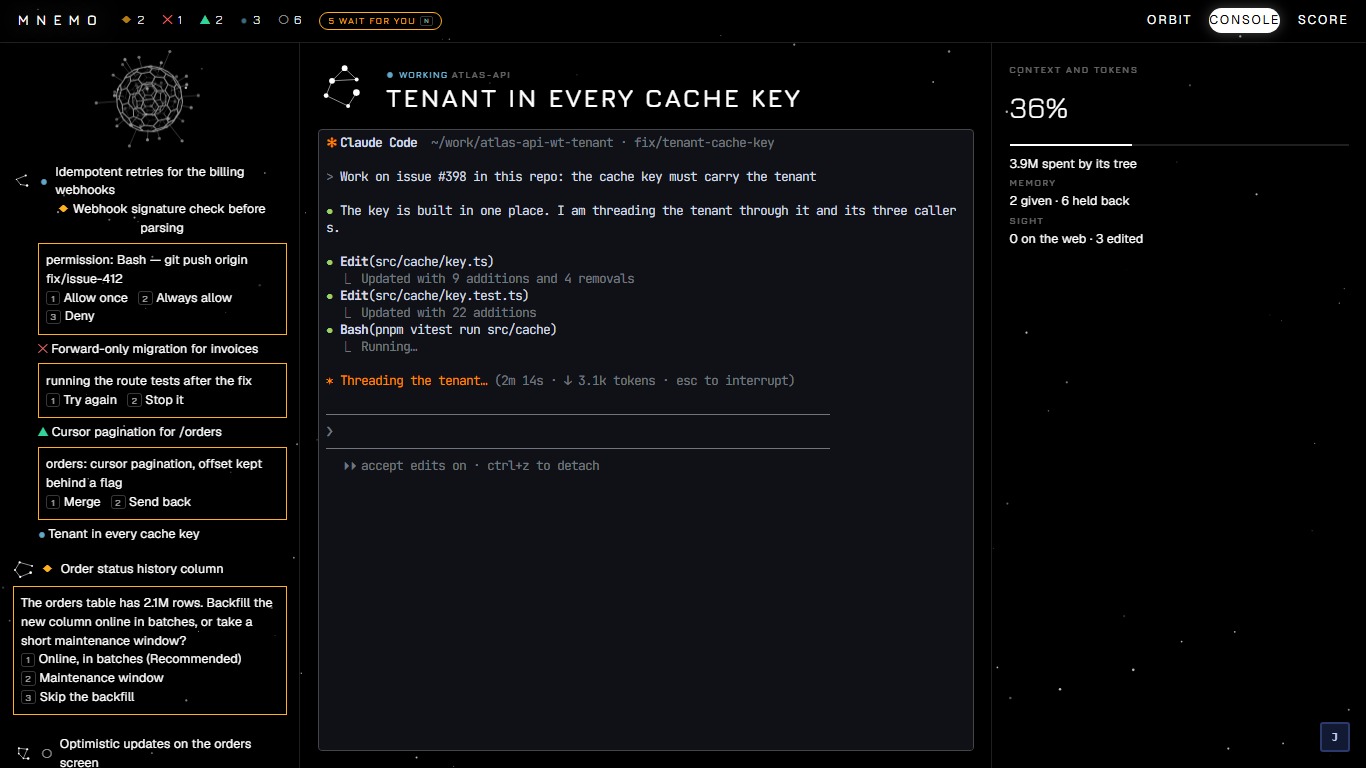
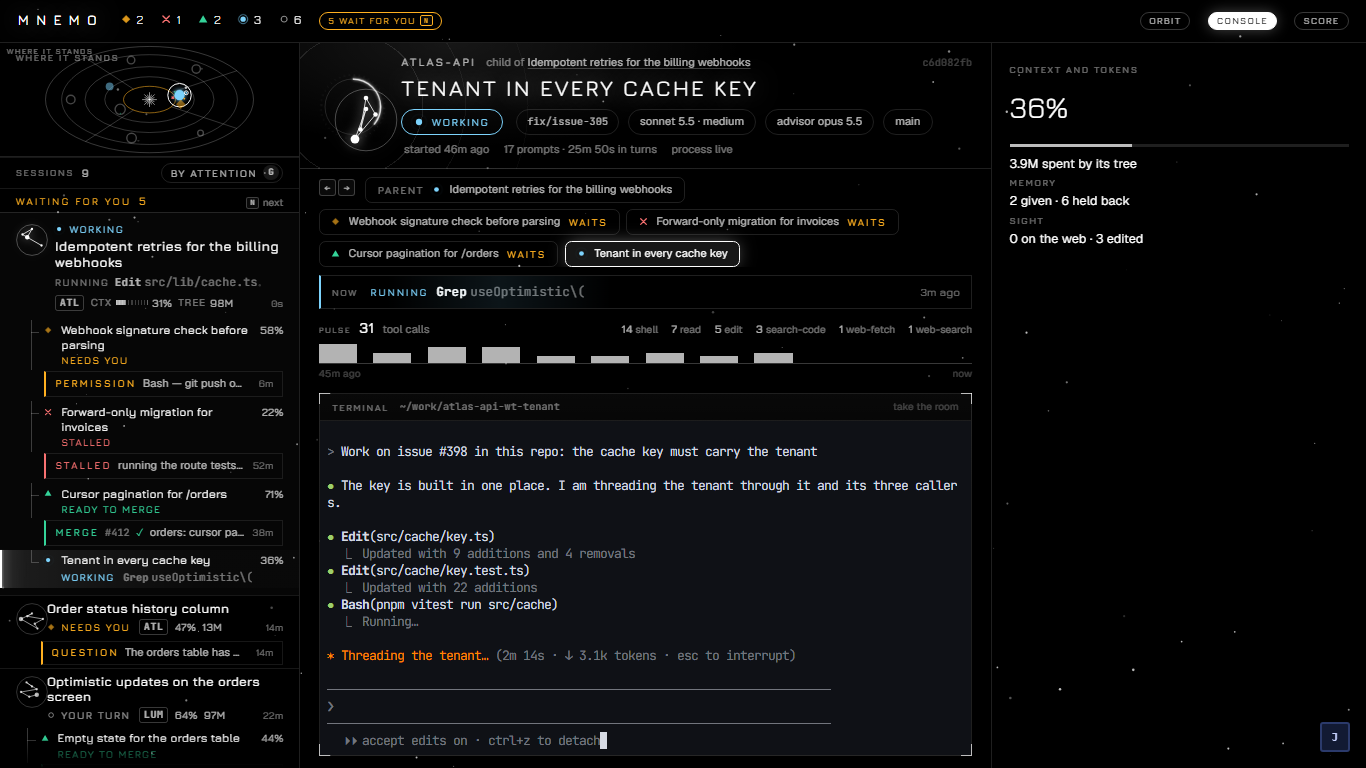
runtime: the frame around the terminal is the stage's; pictures on the landed stage

diff --git a/src/runtime/runtime.css b/src/runtime/runtime.css
@@ -1,5 +1,6 @@
 /* A session's real terminal on the stage (src/runtime/Terminals.tsx). The terminal keeps the
-   readable palette it has (src/terminal/terminal.css); this is only the box around it. */
+   readable palette it has (src/terminal/terminal.css); this is only the box it is drawn in, and
+   what is said in that box while there is no terminal to draw. */
 
 .mn .runtime-terminal {
   position: relative;
@@ -8,15 +9,9 @@
   min-width: 0;
   min-height: 0;
   overflow: hidden;
-  border: 1px solid var(--line);
-  border-radius: 0.35em;
-  /* The terminal's own ground, so no seam shows between its rows and its box. */
+  /* The terminal's own ground, so no seam shows between its rows and its box. The frame around
+     it is the stage's. */
   background: var(--bg, #0f1116);
-  transition: border-color var(--fast) var(--ease);
-}
-/* The one that takes the keys says so with its edge, never with a colour of its own. */
-.mn .runtime-terminal[data-active]:focus-within {
-  border-color: var(--line-2);
 }
 
 .mn .runtime-slot {
